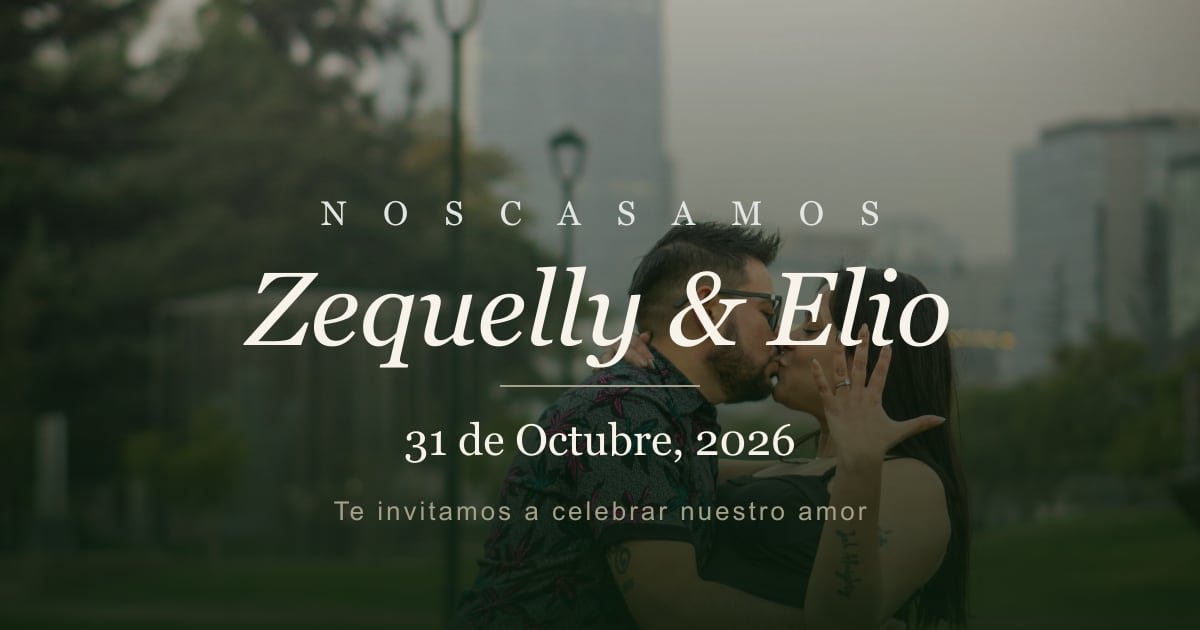
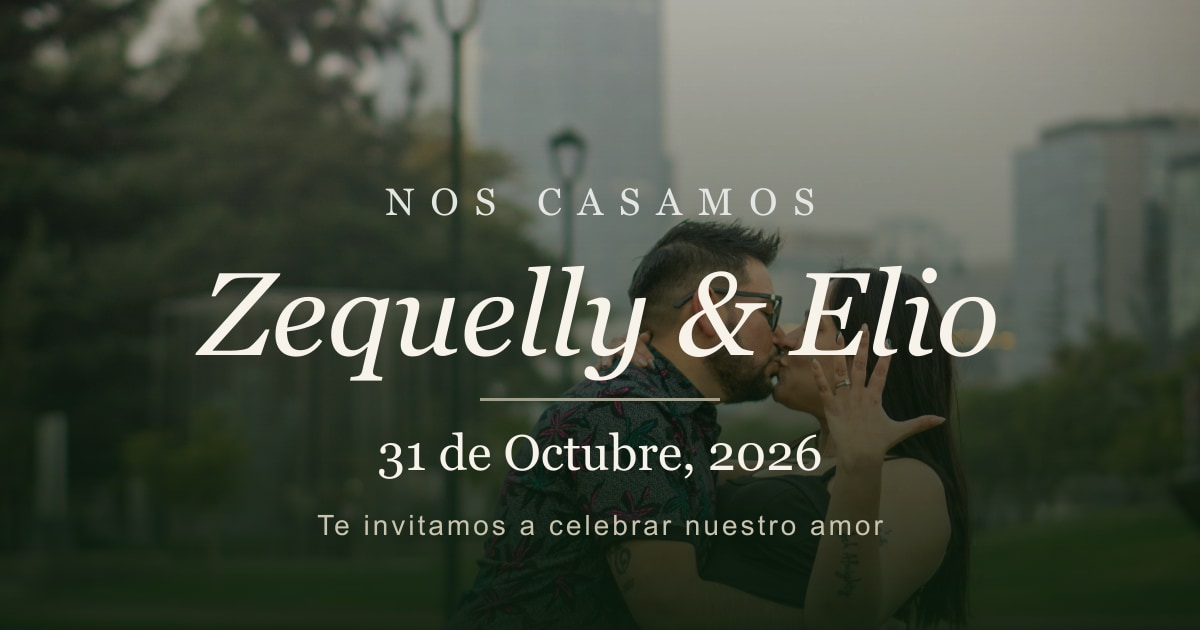
feat: og image mas grande, fix correo minusculas, ver/copiar mensaje completo en panel
- OG image regenerada en mayor calidad y texto mas grande
- Correo destino forzado a minusculas (Resend modo prueba compara exacto)
- Dashboard: click en mensaje abre modal con texto completo + boton copiar

Changed region(s): [[0.1542, 0.4222, 0.8325, 0.754], [0.2467, 0.7841, 0.74, 0.8746], [0.2775, 0.3016, 0.74, 0.3619]]

diff --git a/components/AdminDashboard.tsx b/components/AdminDashboard.tsx
@@ -10,6 +10,7 @@ import {
   EyeOff,
   LogOut,
   MessageCircle,
+  MessageSquareText,
   Pencil,
   Plus,
   Search,
@@ -331,6 +332,8 @@ export function AdminDashboard({ guests: initialGuests, siteUrl }: Props) {
   const [editGuest, setEditGuest] = useState<Guest | null>(null);
   const [importOpen, setImportOpen] = useState(false);
   const [copiedId, setCopiedId] = useState<string | null>(null);
+  const [messageGuest, setMessageGuest] = useState<Guest | null>(null);
+  const [msgCopied, setMsgCopied] = useState(false);
 
   // Derived
   const groups = useMemo(
@@ -638,9 +641,23 @@ export function AdminDashboard({ guests: initialGuests, siteUrl }: Props) {
                           <span className="text-xs text-[#A39F88]">—</span>
                         )}
                         {g.message && (
-                          <p className="mt-1 line-clamp-2 text-xs italic text-[#837E5E]">
-                            "{g.message}"
-                          </p>
+                          <button
+                            className="mt-1 flex w-full items-start gap-1 text-left"
+                            onClick={() => {
+                              setMessageGuest(g);
+                              setMsgCopied(false);
+                            }}
+                            title="Ver mensaje completo"
+                            type="button"
+                          >
+                            <MessageSquareText
+                              className="mt-0.5 flex-shrink-0 text-[#154D35]"
+                              size={12}
+                            />
+                            <span className="line-clamp-2 text-xs italic text-[#837E5E] underline decoration-dotted underline-offset-2 hover:text-[#154D35]">
+                              "{g.message}"
+                            </span>
+                          </button>
                         )}
                       </td>
                       <td className="px-4 py-3.5">
@@ -734,6 +751,43 @@ export function AdminDashboard({ guests: initialGuests, siteUrl }: Props) {
                 await handleImport(csv);
               }}
             />
+          </Modal>
+        ) : null}
+
+        {messageGuest ? (
+          <Modal
+            key="message"
+            onClose={() => setMessageGuest(null)}
+            title="Mensaje de amor"
+          >
+            <div className="flex flex-col gap-4">
+              <div>
+                <p className="font-semibold text-[#154D35]">{messageGuest.display_name}</p>
+                <p className="text-xs text-[#837E5E]">{messageGuest.group_name}</p>
+              </div>
+              <div className="max-h-[50vh] overflow-y-auto whitespace-pre-wrap rounded-2xl border border-[#837E5E]/25 bg-white px-5 py-4 text-[15px] italic leading-7 text-[#15351f]">
+                "{messageGuest.message}"
+              </div>
+              <button
+                className="flex items-center justify-center gap-2 rounded-full bg-[#154D35] px-5 py-3 text-sm font-semibold text-white transition hover:bg-[#0C1D0E]"
+                onClick={async () => {
+                  await navigator.clipboard.writeText(messageGuest.message);
+                  setMsgCopied(true);
+                  setTimeout(() => setMsgCopied(false), 2000);
+                }}
+                type="button"
+              >
+                {msgCopied ? (
+                  <>
+                    <Check size={16} /> ¡Copiado!
+                  </>
+                ) : (
+                  <>
+                    <ClipboardCopy size={16} /> Copiar mensaje
+                  </>
+                )}
+              </button>
+            </div>
           </Modal>
         ) : null}
       </AnimatePresence>

diff --git a/lib/email.ts b/lib/email.ts
@@ -16,7 +16,8 @@ export async function sendRsvpNotification(guest: Guest): Promise<void> {
   const apiKey = process.env.RESEND_API_KEY;
   if (!apiKey) return; // sin configurar → no enviar
 
-  const to = process.env.NOTIFY_EMAIL || "ZEQUELLYB@GMAIL.COM";
+  // En minúsculas: Resend (modo prueba) compara exacto con el correo de la cuenta
+  const to = (process.env.NOTIFY_EMAIL || "zequellyb@gmail.com").toLowerCase();
   const from = process.env.RESEND_FROM || "Invitación Boda <onboarding@resend.dev>";
 
   const members = guest.members ?? [];
